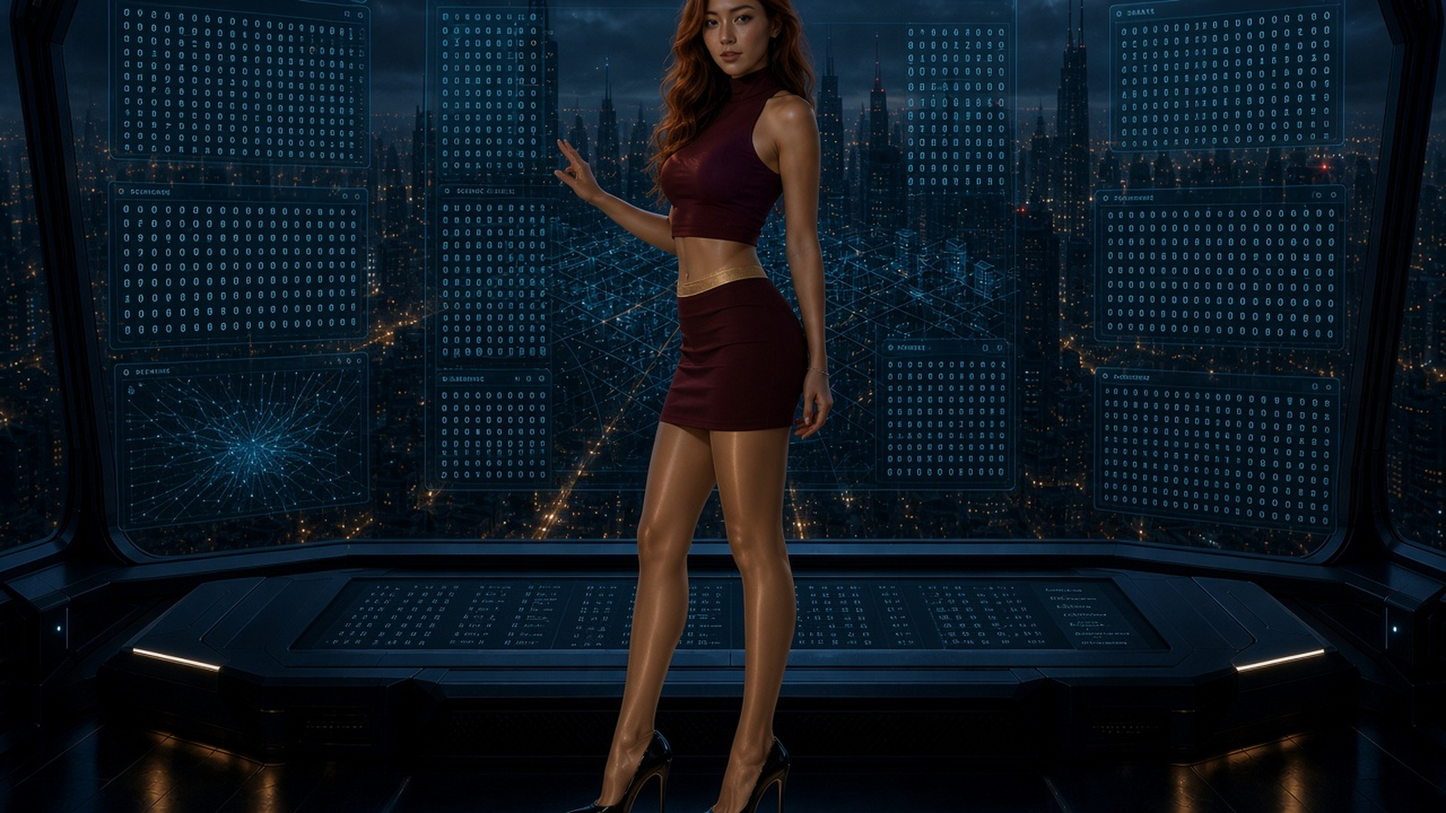
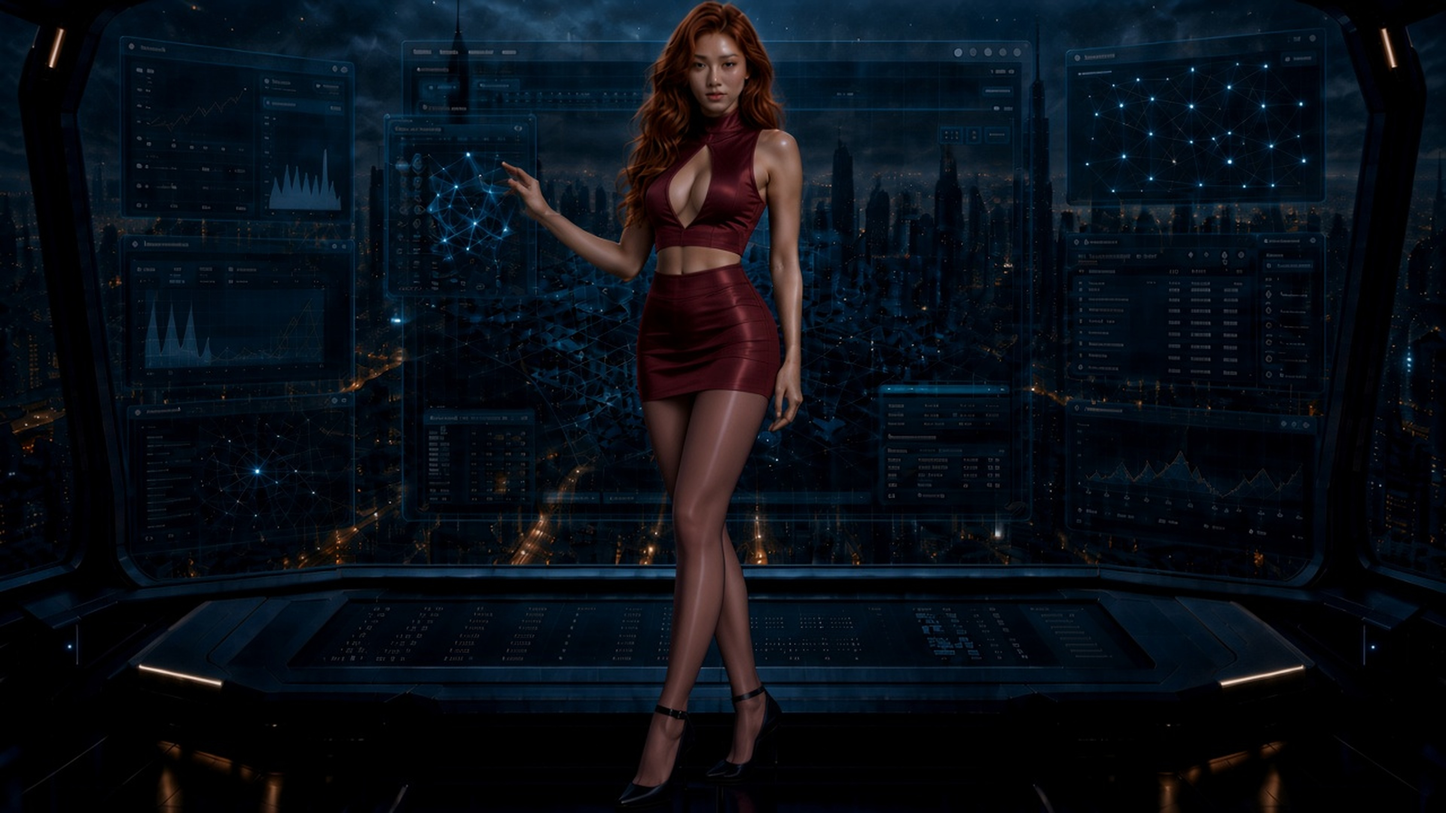
Update neon-dystopia hours 12 and 20 operator styling
Keep the Wallace water temple and night operations deck, and restyle both operators with the sheer cutout two-piece language.

diff --git a/images/neon-dystopia/task-blade-runner-2049.md b/images/neon-dystopia/task-blade-runner-2049.md
@@ -10,7 +10,7 @@
 - 翻譯的是色域、光、天氣、建築尺度與時段情緒
 - 即使只做 12–16 張獨特圖，仍須保留 `0.jpg` 到 `23.jpg`
 
-本文件是主題研究與產圖 brief。`9.jpg`–`14.jpg` 已各換成獨立實體圖（該段依當次指示含人物）。`15.jpg` 依後續指示把 8／14 的人物與窄裙、透明絲襪、高跟鞋放進城市 OS 主畫面；`16.jpg` 改為兩件式窄裙操作者站在交通／電網圖層前；`17.jpg` 為新人物鑽入行政區模組（偏後、膚色褲襪）；`18.jpg` 為黃昏 OS 酒紅長捲髮操作者、超薄透膚黑褲襪；`19.jpg` 為體積孿生裡的酒紅捲髮操作者（正面微側、透膚黑褲襪）；`20.jpg` 為夜前操作甲板的酒紅捲髮操作者（歐美日本混血嘗試、加州陽光膚色絲褲襪）。
+本文件是主題研究與產圖 brief。`9.jpg`–`14.jpg` 已各換成獨立實體圖（該段依當次指示含人物）。`12.jpg` 依後續指示把華勒斯水殿人物改為黑金兩件式、加大胸前鏤空、極薄黑褲襪；`15.jpg` 依後續指示把 8／14 的人物與窄裙、透明絲襪、高跟鞋放進城市 OS 主畫面；`16.jpg` 改為兩件式窄裙操作者站在交通／電網圖層前；`17.jpg` 為新人物鑽入行政區模組（偏後、膚色褲襪）；`18.jpg` 為黃昏 OS 酒紅長捲髮操作者、超薄透膚黑褲襪；`19.jpg` 為體積孿生裡的酒紅捲髮操作者（正面微側、透膚黑褲襪）；`20.jpg` 為夜前操作甲板的酒紅捲髮操作者（歐美日本混血嘗試、極薄酒紅薄紗褲襪、高領加大胸前鏤空上衣；金茶色絲光易被讀成油亮裸腿，已改色）。
 
 ## 現況對照
 
@@ -21,13 +21,13 @@
 | `0–2` | `0.jpg` | 雨夜霓虹大道、暖街燈、倒影 | 較接近 1982 的雨夜巷，不是 2049 的銀白霾與稀疏 LED |
 | `3–5` | `3.jpg` | 工業屋頂、琥珀窗、霧 | 工業體量可用，但缺 2049 的分區色碼 |
 | `6–8` | `6.jpg` | 高空霾城、冷灰、無強霓虹 | 最接近 2049 的 LA 日景 |
-| `9–14` | 各一張獨立圖 | 已重產：霾城／廳堂／金階／水殿／粉雨／Vegas 雕像，含人物 | 該段為當次指定，不作為 15–20 的人物契約 |
+| `9–14` | 各一張獨立圖 | 已重產：霾城／廳堂／金階／水殿／粉雨／Vegas 雕像，含人物 | `12.jpg` 後續改為黑金兩件式、加大胸前鏤空、極薄黑褲襪 |
 | `15` | `15.jpg` | 城市 OS 主畫面＋人物（窄裙、透明絲襪、高跟鞋） | 場景仍是午後界面；人物契約對齊 8／14 |
 | `16` | `16.jpg` | 交通／電網 OS＋兩件式窄裙操作者 | 儀表更密；露腰線、高腰窄裙 |
 | `17` | `17.jpg` | 行政區模組＋新人物（偏後、膚色褲襪） | 更近、更幾何；回眸兩件式 |
 | `18` | `18.jpg` | 黃昏 OS＋酒紅捲髮回眸、透膚黑褲襪 | 青界面壓過琥珀天際線 |
 | `19` | `19.jpg` | 體積孿生＋酒紅捲髮正面微側 | 系統填滿景深；透膚黑褲襪 |
-| `20` | `20.jpg` | 操作甲板＋酒紅捲髮、陽光膚色絲褲襪 | 擋風玻璃＝桌面；夜前 |
+| `20` | `20.jpg` | 操作甲板＋酒紅捲髮、極薄褲襪、加大胸前鏤空 | 擋風玻璃＝桌面；夜前 |
 | `21–23` | `21.jpg` | 雨巷、琥珀／青霓虹、東亞招牌 | 明顯 1982 巷弄；Gassner 說本片沒有霓虹、全是 LED |
 
 主要缺口：蛋白農場、華勒斯人造金光、海堤光池、銀白雪、聖地牙哥垃圾／工業內臟、K 的預製小宅。現有圖把一天混成「藍橙霓虹城」，沒有 2049 的分區色世界。
@@ -182,7 +182,7 @@ Deakins 要大面積死黑，只靠載具燈；浪打來才被照到，不要照
 | `17` | 行政區模組＋銀短髮操作者（回眸） | 更近、更幾何；冰灰兩件式 |
 | `18` | 黃昏 OS＋酒紅捲髮回眸 | 青界面光壓過琥珀天際線；超薄透膚黑褲襪 |
 | `19` | 全幅體積城市孿生＋操作者正面微側 | 系統幾乎填滿景深 |
-| `20` | 操作甲板＋陽光膚色絲褲襪操作者 | 夜前，城市＝桌布 |
+| `20` | 操作甲板＋極薄酒紅褲襪、加大胸前鏤空 | 夜前，城市＝桌布 |
 
 ### 終場雪
 
@@ -225,14 +225,14 @@ Villeneuve：從凍結的雪定義更殘酷的未來 LA，銀白而不是黑。[
 | `4–6` | `4.jpg` | 蛋白農場 | 最冷、褐灰、陰天、溫室／鏡場地平線 |
 | `7–8` | `7.jpg` | 警局／市民粗野主義 | 銀白、混凝土、無人廳堂 |
 | `9–10` | `9.jpg` | LA 日霾 | 無太陽、短能見度；顏色只在遠方指示燈輕輕跳 |
-| `11–13` | `12.jpg` | 華勒斯水殿 | 全片唯一陽光：金、焦散、慢移光 |
+| `11–13` | `12.jpg` | 華勒斯水殿 | 全片唯一陽光：金、焦散、慢移光；黑金兩件式、加大胸前鏤空、極薄黑褲襪 |
 | `14` | `14.jpg` | Vegas 雕像庭（已產，含人物） | 赭紅塵 |
 | `15` | `15.jpg` | 城市 OS 主畫面＋8／14 人物 | 窄裙、透明絲襪、高跟鞋；午後界面剛亮 |
 | `16` | `16.jpg` | 交通／電網圖層＋兩件式操作者 | 高腰窄裙、露腰；儀表密度升高 |
 | `17` | `17.jpg` | 行政區模組＋新人物 | 偏後回眸；膚色褲襪後中縫 |
 | `18` | `18.jpg` | 黃昏 OS＋酒紅捲髮回眸 | 透膚黑褲襪；界面光壓過天際線 |
 | `19` | `19.jpg` | 全幅體積孿生＋正面微側操作者 | 系統填滿景深；透膚黑褲襪 |
-| `20` | `20.jpg` | 操作甲板＋正面微側操作者 | 擋風玻璃＝桌面；加州陽光膚色絲褲襪 |
+| `20` | `20.jpg` | 操作甲板＋正面微側操作者 | 擋風玻璃＝桌面；極薄酒紅薄紗褲襪、高領加大胸前鏤空，無後中縫 |
 | `22` | `22.jpg` | 銀雪外觀 | 繭形建築、雪階 |
 | `23` | `23.jpg` | 銀雪收束 | 更近、更靜、無廣告 |
 
